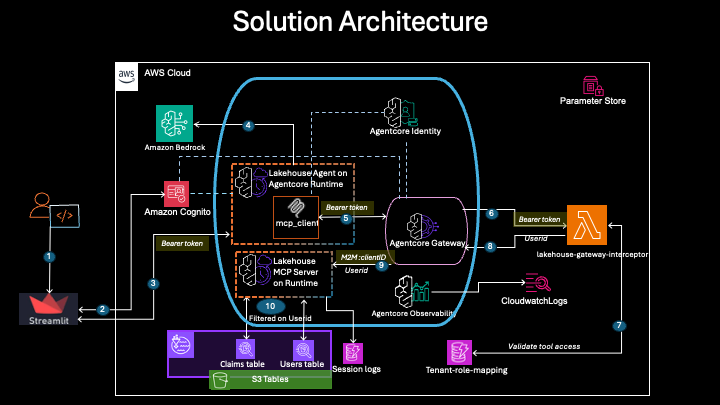
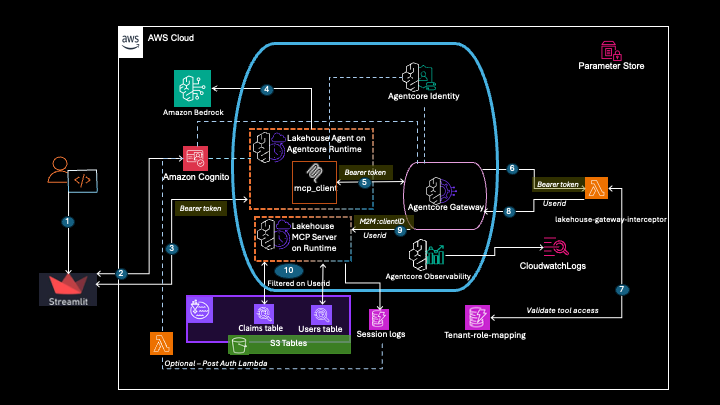
Added scenarios, updated README and enhanced Architecture diagram to show latest changes

diff --git a/02-use-cases/lakehouse-agent/scenarios.md b/02-use-cases/lakehouse-agent/scenarios.md
@@ -1,0 +1,259 @@
+# Lakehouse Agent: Role-Based Access Control Scenarios
+
+---
+
+## Scenario 1: Policy Holder Inquiry
+**Pattern: Row-Level Security + Column Masking**
+
+**User Story**: Sarah, a policy holder (`policyholder001@example.com`), logs into the claims portal to check the status of her recent hospital claim.
+
+**What Sarah Can See**:
+| claim_id | patient_name | patient_dob | claim_amount | claim_status | provider_name | adjuster_id |
+|----------|--------------|-------------|--------------|--------------|---------------|-------------|
+| CLM-2024-001 | Sarah Chen | 1985-03-15 | $1,250.00 | approved | City Medical | ████████ |
+| CLM-2024-003 | Sarah Chen | 1985-03-15 | $3,500.00 | in_review | General Hospital | ████████ |
+
+**What Sarah Cannot See**:
+- Claims belonging to other policy holders
+- The `adjuster_id` column (masked by Lake Formation column-level security)
+
+**How**: Control access to the data through query conditions controlled by tools and parameters curated by Interceptor. The `adjuster_id` column is protected by Lake Formation column masking (to be added to Claims table).
+
+```
+┌────────┐      ┌──────┐        ┌───────┐       ┌────────┐      ┌─────────┐      ┌────────┐      ┌──────────┐      ┌────────┐
+│ Sarah  │      │  UI  │        │ Agent │       │Gateway │      │Intercept│      │  MCP   │      │   Lake   │      │ Athena │
+│Patient │      │      │        │       │       │        │      │         │      │        │      │Formation │      │        │
+└───┬────┘      └───┬──┘        └───┬───┘       └───┬────┘      └────┬────┘      └───┬────┘      └─────┬────┘      └───┬────┘
+    │               │               │               │                │               │                 │               │
+    │"Show my claims"               │               │                │               │                 │               │
+    │──────────────>│               │               │                │               │                 │               │
+    │               │ Query         │               │                │               │                 │               │
+    │               │──────────────>│               │                │               │                 │               │
+    │               │               │JWT Bearer     │                │               │                 │               │
+    │               │               │──────────────>│                │               │                 │               │
+    │               │               │               │ Forward JWT    │               │                 │               │
+    │               │               │               │───────────────>│               │                 │               │
+    │               │               │               │                │╔═══════════════════════════╗    │               │
+    │               │               │               │                │║ JWT Validation            ║    │               │
+    │               │               │               │                │║ • Decode & validate       ║    │               │
+    │               │               │               │                │║ • Extract email & grp     ║    │               │
+    │               │               │               │                │║ email=policyholder001@    ║    │               │
+    │               │               │               │                │║ groups=[policyholders]    ║    │               │
+    │               │               │               │                │╚═══════════════════════════╝    │               │
+    │               │               │               │                │                                 │               │
+    │               │               │               │   X-User-Identity: policyholder001@              │               │
+    │               │               │               │   X-User-Scopes: policyholders                   │               │
+    │               │               │               │                │──────────────>│                 │               │
+    │               │               │               │                │               │ AssumeRole      │               │
+    │               │               │               │                │               │(tag:user_id)    │               │
+    │               │               │               │                │               │────────────────>│               │
+    │               │               │               │                │               │                 │ Query w/      │
+    │               │               │               │                │               │                 │ WHERE user_id │
+    │               │               │               │                │               │                 │──────────────>│
+    │               │               │               │                │               │                 │               │
+    │               │               │               │                │               │                 │ note: Row filter applied
+    │               │               │               │                │               │                 │ note: adjuster_id masked
+    │               │               │               │                │               │                 │               │
+    │               │               │               │                │               │                 │<──────────────│
+    │               │               │               │                │               │<────────────────│               │
+    │               │               │               │                │<──────────────│                 │               │
+    │<───────────────────────────────────────────────────────────────────────────────│Claims (own only, adjuster hidden)
+    │               │               │               │                │               │                 │               │
+```
+
+**Security Controls**:
+- **Row-Level**: `WHERE user_id = '{authenticated_user}'` (application-level via tool parameters)
+- **Column-Level**: Lake Formation masks `adjuster_id` for `patient` role
+- **Tool Parameters**: Interceptor ensures `user_id` parameter matches authenticated user
+
+---
+
+## Scenario 2: Adjuster Dashboard
+**Pattern: Tool-Based Access Control + Column Masking**
+
+**User Story**: Michael, a claims adjuster (`adjuster001@example.com`), logs in to review claims assigned to him.
+
+**What Michael Can See**:
+| claim_id | patient_name | patient_dob | claim_amount | claim_status | adjuster_id |
+|----------|--------------|-------------|--------------|--------------|-------------|
+| CLM-2024-001 | Sarah Chen | ██████████ | $1,250.00 | approved | adjuster001 |
+| CLM-2024-005 | Jane Smith | ██████████ | $850.00 | approved | adjuster001 |
+| CLM-2024-006 | Jane Smith | ██████████ | $125.00 | approved | adjuster001 |
+
+**What Michael Cannot See**:
+- Claims assigned to other adjusters
+- `patient_dob` column (masked for HIPAA compliance — adjusters don't need DOB)
+- Claims not assigned to any adjuster
+
+```
+┌─────────┐       ┌──────┐        ┌───────┐       ┌────────┐      ┌─────────┐      ┌────────┐      ┌──────────┐      ┌────────┐
+│ Michael │       │  UI  │        │ Agent │       │Gateway │      │Intercept│      │  MCP   │      │   Lake   │      │ Athena │
+│Adjuster │       │      │        │       │       │        │      │         │      │        │      │Formation │      │        │
+└────┬────┘       └───┬──┘        └───┬───┘       └───┬────┘      └────┬────┘      └───┬────┘      └─────┬────┘      └───┬────┘
+     │                │               │               │                │               │                 │               │
+     │"Show claims assigned to me"    │               │                │               │                 │               │
+     │───────────────>│               │               │                │               │                 │               │
+     │                │ Query         │               │                │               │                 │               │
+     │                │──────────────>│               │                │               │                 │               │
+     │                │               │JWT Bearer     │                │               │                 │               │
+     │                │               │──────────────>│                │               │                 │               │
+     │                │               │               │ Forward JWT    │               │                 │               │
+     │                │               │               │───────────────>│               │                 │               │
+     │                │               │               │                │╔═══════════════════════════╗    │               │
+     │                │               │               │                │║ JWT Validation            ║    │               │
+     │                │               │               │                │║ • Decode & validate       ║    │               │
+     │                │               │               │                │║ • Extract email & grp     ║    │               │
+     │                │               │               │                │║ email=adjuster001@        ║    │               │
+     │                │               │               │                │║ groups=[adjusters]        ║    │               │
+     │                │               │               │                │╚═══════════════════════════╝    │               │
+     │                │               │               │                │                                 │               │
+     │                │               │               │   X-User-Identity: adjuster001@                  │               │
+     │                │               │               │   X-User-Scopes: adjusters                       │               │
+     │                │               │               │                │──────────────>│                 │               │
+     │                │               │               │                │               │ AssumeRole      │               │
+     │                │               │               │                │               │(tag:adjuster_id)│               │
+     │                │               │               │                │               │────────────────>│               │
+     │                │               │               │                │               │                 │ Query w/      │
+     │                │               │               │                │               │                 │ WHERE         │
+     │                │               │               │                │               │                 │ adjuster_id   │
+     │                │               │               │                │               │                 │──────────────>│
+     │                │               │               │                │               │                 │               │
+     │                │               │               │                │               │                 │ note: Row filter applied
+     │                │               │               │                │               │                 │ note: patient_dob masked
+     │                │               │               │                │               │                 │               │
+     │                │               │               │                │               │                 │<──────────────│
+     │                │               │               │                │               │<────────────────│               │
+     │                │               │               │                │<──────────────│                 │               │
+     │<────────────────────────────────────────────────────────────────────────────────│  Assigned claims (DOB masked)   │
+     │                │               │               │                │               │                 │               │
+```
+
+**Security Controls**:
+- **Tool-Based**: `query_assigned_claims` only available to `adjuster` role
+- **Row-Level**: `WHERE adjuster_id = '{authenticated_adjuster}'`
+- **Column-Level**: Lake Formation masks `patient_dob` for `adjuster` role
+
+---
+
+## Scenario 3: IT Admin Analytics
+**Pattern: Tool Restriction + DynamoDB Session Logs**
+
+**User Story**: Admin (`admin@example.com`) wants to review user login activity and engagement metrics. Session details are captured via a Cognito post-authentication Lambda trigger and logged into DynamoDB. A dedicated MCP tool (`query_login_audit`) reads from DynamoDB and is only available to the admin role.
+
+### How the Interceptor Works (Validated Against Current Code)
+
+The incoming request does NOT contain a role or email in the headers. It contains only a JWT bearer token in the `Authorization` header. The Lambda interceptor (`gateway-setup/interceptor/lambda_function.py`):
+
+1. Extracts the `Authorization: Bearer <token>` from the MCP gateway request
+2. Validates the JWT against Cognito JWKS public keys
+3. Decodes the JWT claims to extract user identity (priority: `email` → `username` → `cognito:username` → `sub`)
+4. Extracts `cognito:groups` from the JWT claims (e.g., `["administrators"]`)
+5. Passes `X-User-Identity` and `X-User-Scopes` (which includes groups) as headers to the downstream MCP server
+
+### Role-to-Tool Mapping (DynamoDB: `lakehouse-role-mappings`)
+
+Tool access is controlled by mapping Cognito groups to allowed tools:
+
+| claim_name | claim_value | allowed_tools | description | role_type | role_value |
+|------------|-------------|---------------|-------------|-----------|------------|
+| cognito:groups | ["adjusters"] | get_claims_summary, get_claim_details, query_claims | Adjusters group mapping | iam_role | arn:aws:iam::XXXXXXXXXXXX:role/lakehouse-adjusters-role |
+| cognito:groups | ["administrators"] | query_login_audit | Administrators group mapping with audit access | iam_role | arn:aws:iam::XXXXXXXXXXXX:role/lakehouse-administrators-role |
+| cognito:groups | ["policyholders"] | get_claims_summary, get_claim_details, query_claims | Policyholders group mapping | iam_role | arn:aws:iam::XXXXXXXXXXXX:role/lakehouse-policyholders-role |
+
+### DynamoDB Table: `lakehouse-session-logs`
+
+Session data captured by Cognito post-authentication Lambda trigger:
+
+| user_id | login_timestamp | client_id | cognito_username | email | email_verified | event_type | groups | source_ip | ttl | user_agent | user_pool_id |
+|---------|-----------------|-----------|------------------|-------|----------------|------------|--------|-----------|-----|------------|--------------|
+| adjuster001@example.com | 2026-02-14T00:50:15 | ... | adjuster001@example.com | adjuster001@example.com | FALSE | post_authentication | [] | ... | 1778806215 | ... | us-east-1_KguWtaDjS |
+| adjuster001@example.com | 2026-02-14T00:54:09 | ... | adjuster001@example.com | adjuster001@example.com | FALSE | post_authentication | [] | ... | 1778806449 | ... | us-east-1_KguWtaDjS |
+| policyholder001@example.com | 2026-02-14T00:47:43 | ... | policyholder001@example.com | policyholder001@example.com | TRUE | post_authentication | [] | ... | 1778806063 | ... | us-east-1_KguWtaDjS |
+| policyholder001@example.com | 2026-02-14T00:53:10 | ... | policyholder001@example.com | policyholder001@example.com | TRUE | post_authentication | [] | ... | 1778806390 | ... | us-east-1_KguWtaDjS |
+| admin@example.com | 2026-02-14T00:28:04 | ... | admin@example.com | admin@example.com | TRUE | post_authentication | [] | ... | 1778804884 | ... | us-east-1_KguWtaDjS |
+| admin@example.com | 2026-02-14T00:28:10 | ... | admin@example.com | admin@example.com | TRUE | post_authentication | [] | ... | 1778804890 | ... | us-east-1_KguWtaDjS |
+
+**What Admin Can Query**:
+
+- How many times each user/policyholder logged in
+- Login timestamps and frequency patterns
+- Source IP addresses
+- Email verification status
+- User pool and client information
+
+```
+┌───────┐      ┌──────┐        ┌───────┐       ┌────────┐      ┌─────────┐      ┌────────┐       ┌─────────┐     ┌─────────┐
+│ Admin │      │  UI  │        │ Agent │       │Gateway │      │Intercept│      │  MCP   │       │ DynamoDB│     │ DynamoDB│
+│       │      │      │        │       │       │        │      │         │      │        │       │ RoleMap │     │ Sessions│
+└───┬───┘      └───┬──┘        └───┬───┘       └───┬────┘      └────┬────┘      └───┬────┘       └────┬────┘     └────┬────┘
+    │              │               │               │                │               │                 │               │
+    │"Show user login activity"    │               │                │               │                 │               │
+    │─────────────>│               │               │                │               │                 │               │
+    │              │ Query         │               │                │               │                 │               │
+    │              │──────────────>│               │                │               │                 │               │
+    │              │               │JWT Bearer     │                │               │                 │               │
+    │              │               │──────────────>│                │               │                 │               │
+    │              │               │               │ Forward JWT    │               │                 │               │
+    │              │               │               │───────────────>│               │                 │               │
+    │              │               │               │                │╔═══════════════════════════╗    │               │
+    │              │               │               │                │║ JWT Validation            ║    │               │
+    │              │               │               │                │║ • Decode & validate       ║    │               │
+    │              │               │               │                │║ • Extract email & grp     ║    │               │
+    │              │               │               │                │║ email=admin@              ║    │               │
+    │              │               │               │                │║ groups=[admins]           ║    │               │
+    │              │               │               │                │╚═══════════════════════════╝    │               │
+    │              │               │               │                │                                 │               │
+    │              │               │               │   X-User-Identity: admin@                        │               │
+    │              │               │               │   X-User-Scopes: administrators                  │               │
+    │              │               │               │                │──────────────>│                 │               │
+    │              │               │               │                │               │ Lookup          │               │
+    │              │               │               │                │               │"admins"         │               │
+    │              │               │               │                │               │────────────────>│               │
+    │              │               │               │                │               │                 │               │
+    │              │               │               │                │               │tools:           │               │
+    │              │               │               │                │               │[query_login_    │               │
+    │              │               │               │                │               │audit]           │               │
+    │              │               │               │                │               │<────────────────│               │
+    │              │               │               │                │               │                                 │
+    │              │               │               │                │               │ query_login_audit()             │
+    │              │               │               │                │               │────────────────────────────────>│
+    │              │               │               │                │               │                                 │
+    │              │               │               │                │               │ note: Login records per user    │
+    │              │               │               │                │               │ note: timestamps, source_ip,    │
+    │              │               │               │                │               │       event_type                │
+    │              │               │               │                │               │                                 │
+    │              │               │               │                │               │<────────────────────────────────│
+    │              │               │               │                │<──────────────│                 │               │
+    │<──────────────────────────────────────────────────────────────────────────────│ Login activity dashboard        │
+    │              │               │               │                │               │                 │               │
+```
+
+**Security Controls**:
+
+- **Tool-Based**: `query_login_audit` tool only available to `administrators` group (via role-mapping table)
+- **IAM Policies**: DynamoDB table access restricted to `lakehouse-administrators-role` ARN
+- **Interceptor**: Extracts `cognito:groups` from JWT, passes as `X-User-Scopes` to MCP server
+- **MCP Server**: Looks up allowed tools from `lakehouse-role-mappings` DynamoDB table based on user's group
+
+**Lake Formation + DynamoDB Note**:
+> ⚠ Lake Formation does NOT support DynamoDB. DynamoDB security is enforced via:
+>
+> 1. **IAM Policies** — Restrict DynamoDB table access by IAM role ARN
+> 2. **DynamoDB Fine-Grained Access Control (FGAC)** — IAM conditions on partition/sort keys
+> 3. **Tool-Level Restriction** — `query_login_audit` tool only exposed to admin role via role-mapping table lookup
+
+---
+
+## Summary: Security Patterns by Role
+
+| Role | Cognito Group | Row Access | Column Access | Tools Available | Data Source |
+|------|---------------|------------|---------------|-----------------|-------------|
+| **Patient** | policyholders | Own claims only | All except `adjuster_id` | `query_claims`, `get_claim_details`, `get_claims_summary` | Athena |
+| **Adjuster** | adjusters | Assigned claims only | All except `patient_dob` | `query_claims`, `get_claim_details`, `get_claims_summary` | Athena |
+| **Admin** | administrators | Session logs (all users) | All columns | `query_login_audit` | DynamoDB |
+
+## Implementation Priority
+
+1. **Scenario 1** (Easiest): Add `adjuster_id` column + Lake Formation column mask
+2. **Scenario 2** (Medium): Add new tool + role-based tool filtering in interceptor
+3. **Scenario 3** (Complex): DynamoDB session-logs table + Cognito post-auth trigger + role-mapping table + `query_login_audit` MCP tool

diff --git a/02-use-cases/lakehouse-agent/README.md b/02-use-cases/lakehouse-agent/README.md
@@ -31,6 +31,8 @@ This system showcases a lakehouse data processing application with:
 - **OAuth credentials** propagated through the entire stack (UI → Agent → Gateway → MCP → Athena)
 - **Row-Level Security** enforced through federated user identity
 
+For detailed role-based access control scenarios and examples, see [scenarios.md](scenarios.md).
+
 ### What Makes This Production-Ready
 
 ✅ **End-to-End OAuth**: JWT bearer tokens validated at every layer
@@ -250,6 +252,9 @@ Key Points:
    - AWS Athena
    - AWS Glue
    - Amazon S3
+   - Amazon S3 Tables
+   - AWS Lake Formation
+   - Amazon DynamoDB
    - AWS Systems Manager (SSM Parameter Store)
 
 ### Development Environment
@@ -314,7 +319,7 @@ jupyter notebook
 
 | Notebook | Description |
 |----------|-------------|
-| `01-deploy-cognito.ipynb` | Set up Cognito User Pool with OAuth and test users |
+| `01-deploy-cognito.ipynb` | Set up Cognito User Pool with OAuth and test users. Optional: deploy login audit tracking |
 | `02-deploy-iam-roles.ipynb` | Create IAM roles for tenant groups (policyholders, adjusters, administrators) |
 | `03-deploy-s3tables.ipynb` | Deploy S3 Tables with Lake Formation integration and sample data |
 | `04-deploy-mcp-server.ipynb` | Deploy MCP Athena server on AgentCore Runtime |
@@ -340,6 +345,10 @@ cd 02-use-cases/lakehouse-agent/deployment
 
 # Step 1: Cognito User Pool + OAuth
 cd 1-cognito-setup && python setup_cognito.py
+
+# Step 1b (Optional): Login audit tracking
+bash deploy_post_auth_lambda.sh
+python setup_cognito.py --add-post-auth-trigger
 
 # Step 2: IAM tenant roles (policyholders, adjusters, administrators)
 cd ../2-lakehouse-tenant-roles-setup && python setup_iam_roles.py
@@ -374,12 +383,13 @@ See [deployment/README.md](deployment/README.md) for full details including Lake
 
 - **Cognito User Pool**: OAuth authentication with test users and groups
 - **IAM Tenant Roles**: Per-group roles with Athena/S3/Lake Formation permissions
-- **S3 Tables**: `claims` and `users` tables with Lake Formation row-level security
+- **S3 Tables**: `claims` and `users` tables in Apache Iceberg format with Lake Formation row-level security
+- **Lake Formation Integration**: Federated catalog (`s3tablescatalog`) with column-level and row-level access control
 - **S3 Bucket**: Athena query results storage
-- **MCP Server**: Athena tool execution layer on AgentCore Runtime
+- **MCP Server**: Athena tool execution layer on AgentCore Runtime (5 tools: `query_claims`, `get_claim_details`, `get_claims_summary`, `query_login_audit`, `text_to_sql`)
 - **Gateway**: Request routing with JWT validation and request/response interceptors
-- **Agent**: Conversational AI on AgentCore Runtime (Strands framework)
-- **DynamoDB Table**: Tenant-to-role mapping for interceptor authorization
+- **Agent**: Conversational AI on AgentCore Runtime (Strands framework, Claude Sonnet 4.5)
+- **DynamoDB Tables**: `lakehouse_tenant_role_map` (tenant-to-role mapping for interceptor authorization), `lakehouse_user_login_audit` (optional, login audit logs)
 - **Test Users**: policyholder001@example.com, adjuster001@example.com, admin@example.com (password: `TempPass123!`)
 
 ### Quick Test
@@ -390,6 +400,32 @@ After deployment, open the Streamlit UI at http://localhost:8501 and try:
 Query: "Show me all claims"
 Expected: Conversational response with claims data filtered by your user's permissions
 ```
+
+### Optional: Login Audit Tracking
+
+The system includes an optional login audit feature that records every Cognito authentication event to a DynamoDB table. This enables administrators to query login history through the agent (e.g., "show me recent login activity").
+
+**How it works:**
+1. A DynamoDB table (`lakehouse_user_login_audit`) stores login events with user ID, timestamp, IP address, user agent, and Cognito group membership
+2. A Lambda function (`lakehouse-cognito-post-auth`) is triggered automatically after each successful Cognito authentication
+3. Records have TTL-based expiration for automatic cleanup
+4. The MCP server's `query_login_audit` tool reads from this DynamoDB table (no Lake Formation involvement — this is a direct DynamoDB read, restricted to the administrators group via Gateway fine-grained access control)
+
+**To enable it:**
+- Via notebook: Run the optional Step 3 cells in `01-deploy-cognito.ipynb`
+- Via CLI:
+  ```bash
+  cd deployment/1-cognito-setup
+  bash deploy_post_auth_lambda.sh
+  python setup_cognito.py --add-post-auth-trigger
+  ```
+
+**Resources created:**
+- DynamoDB table: `lakehouse_user_login_audit` (PAY_PER_REQUEST, TTL enabled)
+- Lambda function: `lakehouse-cognito-post-auth`
+- IAM role: `lakehouse-cognito-post-auth-role`
+
+**This step is entirely optional.** The rest of the system (claims queries, summaries, text-to-SQL) works without it. If skipped, administrators will see a message that the login audit table doesn't exist when they try to query login history.
 
 ---
 
@@ -713,6 +749,7 @@ The system uses JWT scopes for fine-grained access control:
 | `lakehouse-api/claims.query` | Read claims | query_claims, get_claim_details, get_claims_summary |
 | `lakehouse-api/claims.submit` | Submit claims | submit_claim |
 | `lakehouse-api/claims.update` | Update claims | update_claim_status |
+| `lakehouse-api/claims.approve` | Approve/deny claims | approve_claim, deny_claim |
 
 Scopes are validated in the Gateway interceptor Lambda.
 
@@ -742,4 +779,4 @@ This project is licensed under the Apache License 2.0 - see the LICENSE file for
 
 **Status**: Production-Ready ✅
 **Authentication**: End-to-End OAuth with JWT
-**Last Updated**: January 2025
+**Last Updated**: March 2026
